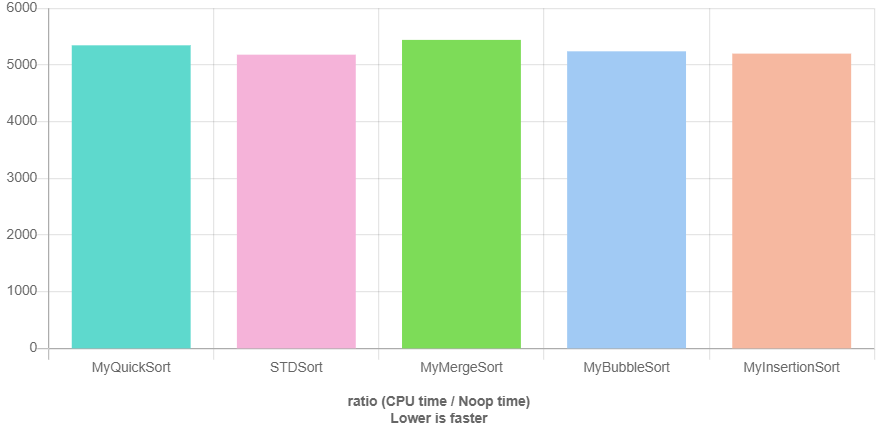
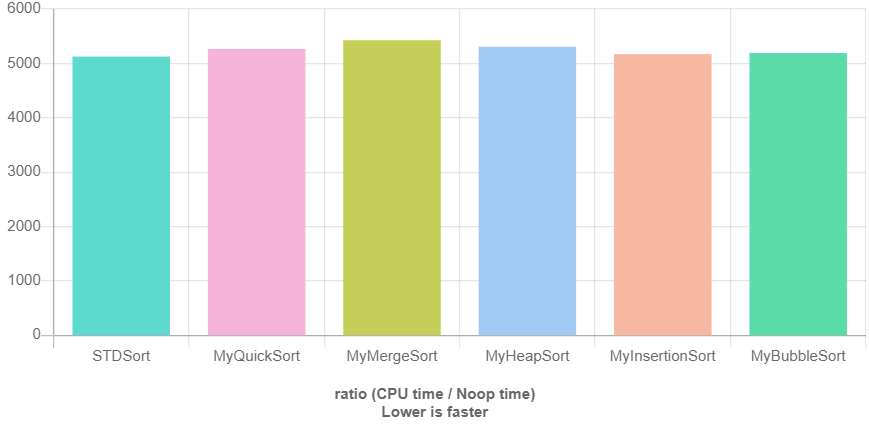
Aggiornate statistiche

diff --git a/EserciziClasse/lib/README.md b/EserciziClasse/lib/README.md
@@ -4,26 +4,29 @@
 ## N = 10 elementi
 ![Sort10](sort10.png)
 
-* <b>STDSort</b>: 1.000 <hh5181>
-* <b>MyQuickSort:</b> 1.032 <h5346>
-* <b>MyMergeSort:</b>  1.050 <h5442>
-* <b>MyBubbleSort:</b> 1.011 <h5240>
-* <b>MyInsertionSort:</b> 1.004 <h5200>
+* <b>STDSort</b>: 1.00 <h5126>
+* <b>MyQuickSort:</b> 1.03 <h5266>
+* <b>MyMergeSort:</b>  1.06 <h5427>
+* <b>MyHeapSort:</b> 1.04 <h5307>
+* <b>MyInsertionSort:</b> 1.01 <h5171>
+* <b>MyBubbleSort:</b> 1.01 <h5193>
 
 ## N = 50 elementi
 ![Sort50](sort50.png)
 
-* <b>STDSort:</b> 1.000 <h7191>
-* <b>MyQuickSort:</b> 1.077 <h7747>
-* <b>MyMergeSort:</b> 1.211 <h8706>
-* <b>MyBubbleSort:</b> 1.367 <h9832>
-* <b>MyInsertionSort:</b> 1.118 <h8041>
+* <b>STDSort:</b> 1.00 <h7191>
+* <b>MyQuickSort:</b> 1.08 <h7745>
+* <b>MyMergeSort:</b> 1.20 <h8633>
+* <b>MyHeapSort:</b> 1.21 <h8670>
+* <b>MyInsertionSort:</b> 1.10 <h7918>
+* <b>MyBubbleSort:</b> 1.41 <h10132>
 
 ## N = 500 elementi
 ![Sort500](sort500.png)
 
-* <b>STDSort:</b> 1.000 <h35979>
-* <b>MyQuickSort:</b> 1.242 <h44674>
-* <b>MyMergeSort:</b> 1.993 <h71709>
-* <b>MyBubbleSort:</b> 17.520 <h630338>
-* <b>MyInsertionSort:</b> 4.082 <h146858>
+* <b>STDSort:</b> 1.00 <h35467>
+* <b>MyQuickSort:</b> 1.28 <h45324>
+* <b>MyMergeSort:</b> 1.92 <h68130>
+* <b>MyHeapSort:</b> 2.59 <h91760>
+* <b>MyInsertionSort:</b> 4.01 <h142303>
+* <b>MyBubbleSort:</b> 8.47 <h300244>
